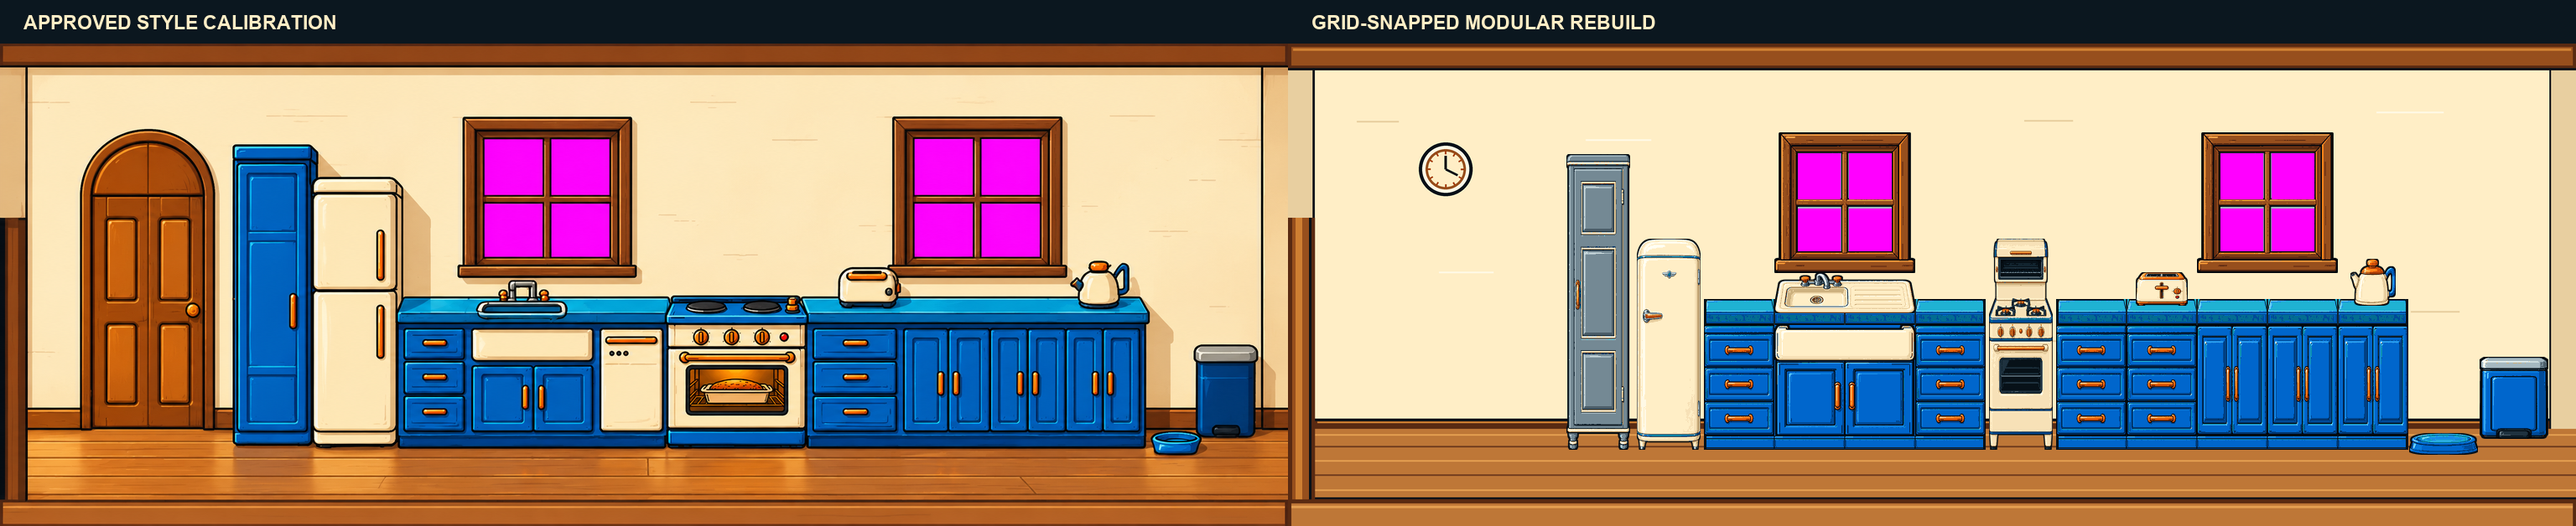
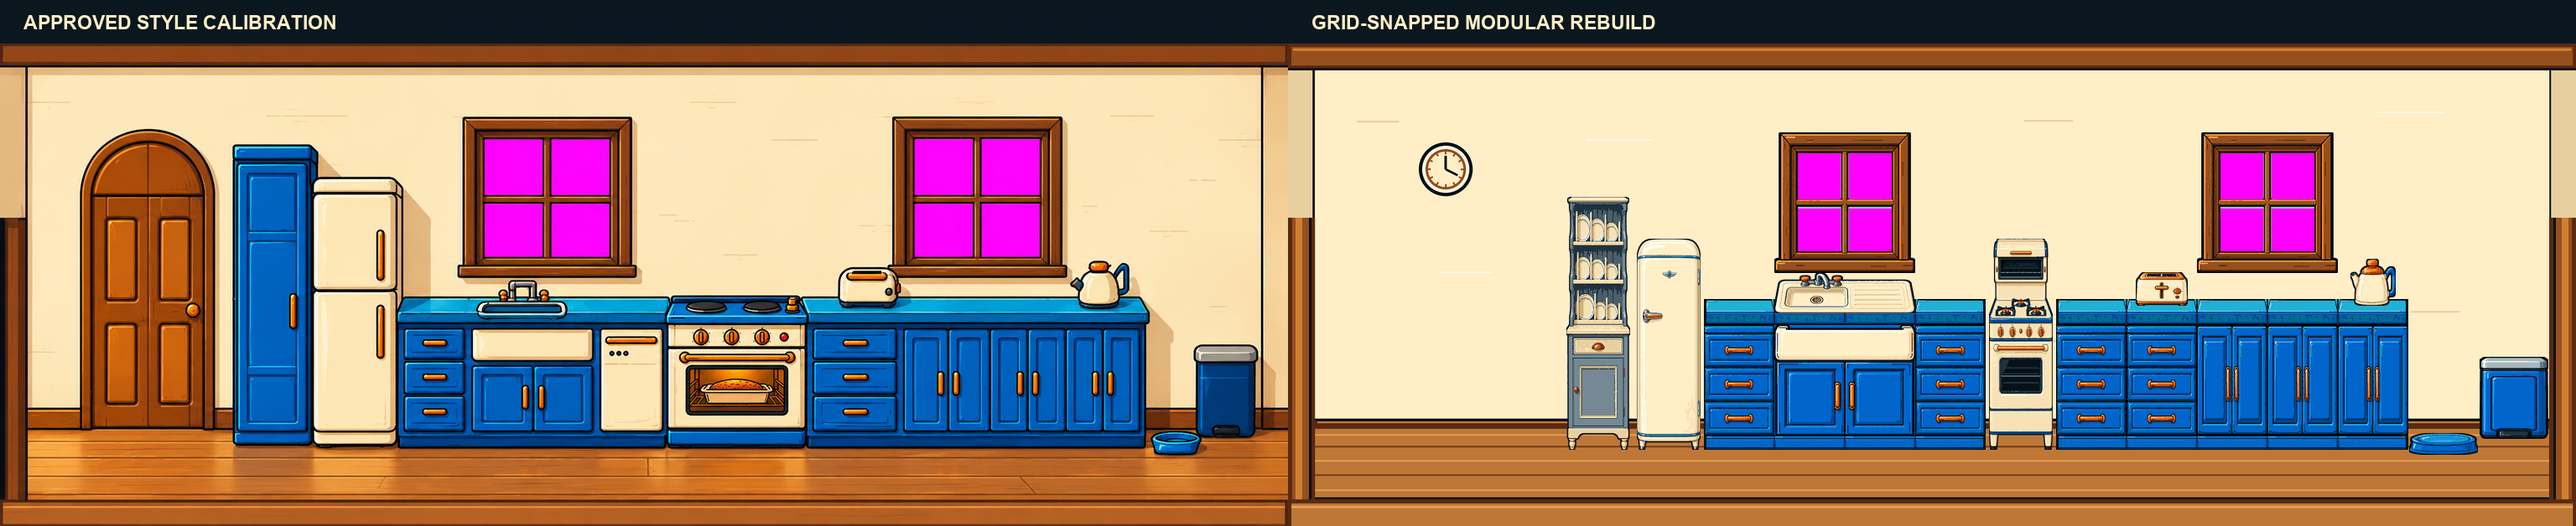
Complete Kitchen V3 right-door rebuild review

Changed region(s): [[0.5938, 0.2723, 0.6562, 0.8471], [0.9688, 0.3933, 1.0, 0.9682]]

diff --git a/review/kitchen-proof-v3-rebuild/review.html b/review/kitchen-proof-v3-rebuild/review.html
@@ -10,7 +10,7 @@
   </style>
 </head>
 <body>
-  <header><span class="status">REVIEW ONLY · AWAITING FRANK</span><h1>Kitchen V3 rebuild</h1><p>Approved illustrative quality, exact bay geometry, zero cast shadows, and the same-pass freestanding 1950s amendment.</p></header>
+  <header><span class="status">REVIEW ONLY · AWAITING FRANK</span><h1>Kitchen V3 rebuild</h1><p>Approved illustrative quality, exact bay geometry, zero cast shadows, freestanding 1950s appliances and the right-door magic cupboard jamb.</p></header>
   <main>
     <h2>Native room view · 1536 × 576</h2><div class="card"><img class="room" src="outputs/kitchen_v3_rebuild_room.png" width="1536" height="576" alt="Kitchen V3 modular rebuild"></div>
     <h2>Approved calibration vs modular rebuild</h2><div class="card"><img src="outputs/calibration_vs_rebuild.png" width="3072" height="628" alt="Approved calibration beside rebuild"></div>
@@ -19,7 +19,7 @@
       <section><h2>Tower scale · 1/4</h2><div class="card"><img class="pixel" src="outputs/kitchen_v3_rebuild_tower_scale.png" width="384" height="144" alt="Rebuild at tower scale"></div></section>
     </div>
     <h2>Prime Keeper · unchanged 1:1</h2><div class="card"><img src="outputs/keeper_check_sheet.png" alt="Prime Keeper at fridge sink and cooker"></div>
-    <h2>Freestanding moving and light overlays</h2><div class="card"><img src="outputs/freestanding_state_overlays.png" alt="Open larder, open refrigerator and lit cooker overlay states"></div>
+    <h2>Right jamb, moving state and light overlays</h2><div class="card"><img src="outputs/freestanding_state_overlays.png" alt="Right-door jamb, open refrigerator and lit cooker overlay states"></div>
     <h2>Every isolated part</h2><div class="card"><img src="outputs/contact_sheet.png" alt="Kitchen rebuild production parts"></div>
     <h2>Mechanical gates</h2>
     <div class="card"><table><tbody>
@@ -27,7 +27,7 @@
       <tr><th>Window exclusion</th><td class="pass">zero item pixels above y=274</td></tr>
       <tr><th>Run geometry</th><td class="pass">continuous opaque tiles; declared joints only</td></tr>
       <tr><th>Cooker alignment</th><td class="pass">hob y=305; eye-level grill y=251–291; feet y=485</td></tr>
-      <tr><th>Amendment</th><td class="pass">freestanding larder/fridge/cooker active; dishwasher and fitted predecessors retired</td></tr>
+      <tr><th>Amendment</th><td class="pass">dresser/fridge/cooker active; right jamb exact; utility, larder, dishwasher and fitted predecessors retired</td></tr>
       <tr><th>Shadow policy</th><td class="pass">generated exterior halo discarded; detached partial alpha rejected</td></tr>
       <tr><th>Isolation</th><td class="pass">549 changed pixels, all inside the sink insert</td></tr>
     </tbody></table><img src="outputs/isolation_sink_taps_diff.png" width="1536" height="576" alt="Sink-only isolation difference"></div>

diff --git a/review/kitchen-proof-v3-rebuild/build_review.py b/review/kitchen-proof-v3-rebuild/build_review.py
@@ -272,10 +272,17 @@ def make_parts() -> dict[str, dict]:
         "bayWidth": 1, "category": "freestanding", "placement": "freestanding", "realSizeM": [0.5, 0.6, 2.0],
         "anchorPx": [38, 353], "standPointX": 370,
         "movingPartOverlays": [{"id": "open_door", "file": "overlay_larder_cupboard_open.png", "rectPx": [-50, 0, 76, 353]}],
+        "kitchenUsage": "retired-from-kitchen",
         "sourceSha256": source_hash("larder-source.png"),
     }, records)
     larder_open = clean_source("larder-open-source.png", (126, 353), outline=True)
-    save_part("overlay_larder_cupboard_open.png", larder_open, {"bayWidth": 1, "category": "component", "sourceSha256": source_hash("larder-open-source.png")}, records)
+    save_part("overlay_larder_cupboard_open.png", larder_open, {"bayWidth": 1, "category": "component", "kitchenUsage": "retired-from-kitchen", "sourceSha256": source_hash("larder-open-source.png")}, records)
+
+    dresser = clean_source("dresser-1950s-source.png", (76, 302), outline=True)
+    save_part("dresser_1950s.png", dresser, {
+        "bayWidth": 1, "category": "freestanding", "placement": "freestanding", "realSizeM": [0.5, 0.4, 1.8],
+        "anchorPx": [38, 302], "standPointX": 370, "sourceSha256": source_hash("dresser-1950s-source.png"),
+    }, records)
 
     fridge_1950s = clean_source("fridge-1950s-source.png", (76, 252), outline=True)
     save_part("fridge_1950s.png", fridge_1950s, {
@@ -363,6 +370,13 @@ def room_shell() -> Image.Image:
     rect((9, 208, 17, 544), WOOD_LIGHT)
     line((26, 208, 26, 544), INK, 3)
 
+    # Matching right-wall jamb: the cupboard of myriads is fictional and
+    # never occupies a bay or appears behind this timber edge.
+    rect((1504, 208, 1536, 544), WOOD_DARK)
+    rect((1510, 208, 1531, 544), WOOD)
+    rect((1519, 208, 1527, 544), WOOD_LIGHT)
+    line((1510, 208, 1510, 544), INK, 3)
+
     image = image.resize((W, H), Image.Resampling.LANCZOS)
     window = build_window()
     image.alpha_composite(window, (580, 106))
@@ -378,13 +392,12 @@ def assemble(
     parts: dict[str, Image.Image],
     keeper_x: int | None = None,
     sink_override: Image.Image | None = None,
-    open_larder: bool = False,
     open_fridge: bool = False,
     lit_cooker: bool = False,
 ) -> tuple[Image.Image, Image.Image]:
     room = room_shell()
     item_layer = Image.new("RGBA", room.size, (0, 0, 0, 0))
-    paste(item_layer, parts["unit_larder_cupboard_closed.png"], 332, 132)
+    paste(item_layer, parts["dresser_1950s.png"], 332, 183)
     paste(item_layer, parts["fridge_1950s.png"], 416, 233)
 
     for x in (496, 580, 664, 748, 916, 1000, 1084, 1168, 1252):
@@ -414,8 +427,6 @@ def assemble(
     paste(item_layer, parts["pedal_bin.png"], 1420, 373)
     room.alpha_composite(item_layer)
 
-    if open_larder:
-        paste(room, parts["overlay_larder_cupboard_open.png"], 282, 132)
     if open_fridge:
         paste(room, parts["overlay_fridge_open.png"], 366, 233)
     if lit_cooker:
@@ -431,6 +442,10 @@ def assemble(
     jd.rectangle((5, 208, 25, 543), fill=WOOD)
     jd.rectangle((9, 208, 16, 543), fill=WOOD_LIGHT)
     jd.line((26, 208, 26, 543), fill=INK, width=3)
+    jd.rectangle((1504, 208, 1535, 543), fill=WOOD_DARK)
+    jd.rectangle((1510, 208, 1530, 543), fill=WOOD)
+    jd.rectangle((1519, 208, 1526, 543), fill=WOOD_LIGHT)
+    jd.line((1510, 208, 1510, 543), fill=INK, width=3)
     return room, item_layer
 
 
@@ -480,7 +495,7 @@ def main() -> None:
     state_sheet = Image.new("RGBA", (W, H * 3), (0, 0, 0, 255))
     state_draw = ImageDraw.Draw(state_sheet)
     for index, (label, options) in enumerate((
-        ("LARDER OPEN", {"open_larder": True}),
+        ("RIGHT DOOR · JAMB ONLY", {}),
         ("FRIDGE OPEN / INTERIOR LIT", {"open_fridge": True}),
         ("COOKER LIGHT OVERLAYS", {"lit_cooker": True}),
     )):
@@ -538,8 +553,9 @@ def main() -> None:
         "schema": "lighthouse-keeper/kitchen-v3-rebuild-room@1", "canvasPx": [W, H], "walkY": 502,
         "bayFieldX": [328, 1504], "bayWidthPx": 84, "bayCount": 14,
         "runs": [[3, 6], [8, 12]], "windows": WINDOWS,
-        "placements": {"larder": [1, 370], "fridge": [2, 454], "drawers": [[3, 538], [6, 790], [8, 958], [9, 1042]], "sink": [[4, 5], 622], "cooker": [7, 874], "toaster": [9, 1042], "kettle": [12, 1294], "petBowl": [13, 1378], "pedalBin": [14, 1462]},
-        "retiredFromKitchen": ["unit_utility_cupboard_closed.png", "overlay_utility_cupboard_open.png", "unit_fridge_freezer.png", "front_dishwasher.png", "overlay_dishwasher_led.png", "cooker.png"],
+        "placements": {"dresser": [1, 370], "fridge": [2, 454], "drawers": [[3, 538], [6, 790], [8, 958], [9, 1042]], "sink": [[4, 5], 622], "cooker": [7, 874], "toaster": [9, 1042], "kettle": [12, 1294], "petBowl": [13, 1378], "pedalBin": [14, 1462]},
+        "rightDoorJambPx": [1504, 208, 1536, 544],
+        "retiredFromKitchen": ["unit_utility_cupboard_closed.png", "overlay_utility_cupboard_open.png", "unit_larder_cupboard_closed.png", "overlay_larder_cupboard_open.png", "unit_fridge_freezer.png", "front_dishwasher.png", "overlay_dishwasher_led.png", "cooker.png"],
     }, indent=2) + "\n", encoding="utf-8")
 
     files = {}
@@ -548,10 +564,10 @@ def main() -> None:
             if path.is_file(): files[path.relative_to(ROOT).as_posix()] = {"sha256": sha256(path), "bytes": path.stat().st_size}
     manifest = {
         "schema": "lighthouse-keeper/kitchen-proof-v3-rebuild@1", "status": "review-only-awaiting-frank", "canonMutation": False, "runtimeMutation": False,
-        "geometry": {"modulePx": [W, H], "scalePxPerM": 168, "topRevealPxPerM": 28, "walkY": 502, "floorBandY": [460, 544], "bayFieldX": [328, 1504], "bayCount": 14, "bayWidthPx": 84, "windows": WINDOWS, "glassLocalRects": GLASS_LOCAL_RECTS, "verticals": {"unitBase": 485, "plinth": [468, 485], "fronts": [336, 468], "worktopEdge": [322, 336], "worktopReveal": [305, 322], "fridge1950s": [233, 485], "larder": [132, 485], "cooker1950s": [233, 485], "cookerHobReveal": [305, 322]}},
+        "geometry": {"modulePx": [W, H], "scalePxPerM": 168, "topRevealPxPerM": 28, "walkY": 502, "floorBandY": [460, 544], "bayFieldX": [328, 1504], "bayCount": 14, "bayWidthPx": 84, "windows": WINDOWS, "glassLocalRects": GLASS_LOCAL_RECTS, "leftDoorJambPx": [0, 208, 32, 544], "rightDoorJambPx": [1504, 208, 1536, 544], "verticals": {"unitBase": 485, "plinth": [468, 485], "fronts": [336, 468], "worktopEdge": [322, 336], "worktopReveal": [305, 322], "dresser1950s": [183, 485], "fridge1950s": [233, 485], "cooker1950s": [233, 485], "cookerHobReveal": [305, 322]}},
         "keeper": {"sourceScale": 1.0, "standingHeightPx": 298, "soleDatumY": 316, "roomSoleY": 502, "positions": [454, 622, 874], "worktopEdgeHeightPx": 180, "worktopEdgePercent": round(180 / 298 * 100, 2)},
         "style": {"approvedCalibrationSha256": sha256(SOURCES / "approved-style-calibration.png"), "v7Sha256": V7_SHA, "fillPalette": "palette_env-v1", "fillPaletteSize": len(PALETTE), "normalization": "generated alpha >=200 becomes silhouette; lower-alpha exterior halo/shadow discarded; final antialias created only by deterministic resampling"},
-        "checks": {"exactMagentaPixels": exact_magenta, "nearMagentaPixels": near_magenta, "itemPixelsAboveWindowLimit": forbidden, "worktopRuns": [[496, 832], [916, 1336]], "worktopTopY": 305, "cookerHobTopY": 305, "cookerTopY": 233, "cookerFeetY": 485, "eyeLevelGrillY": [251, 291], "plinthY": [468, 485], "castShadowPolicy": "none; generated exterior alpha below threshold discarded before fitting", "itemInkPx": "2–3 at native scale", "keeperInkPx": "3–4 at native scale", "isolation": {"changedLocalTapPixels": changed_local, "roomDiffPixels": diff_pixels, "roomDiffBoundsInclusive": bbox, "allowedBoundsInclusive": [580, 274, 747, 321], "allStoredPartHashesUnchanged": True}, "overlayRects": {"overlay_oven_window.png": [11, 132, 65, 190], "overlay_grill_glow.png": [10, 18, 66, 58], "overlay_burner_flames.png": [8, 72, 68, 108]}},
+        "checks": {"exactMagentaPixels": exact_magenta, "nearMagentaPixels": near_magenta, "itemPixelsAboveWindowLimit": forbidden, "worktopRuns": [[496, 832], [916, 1336]], "worktopTopY": 305, "cookerHobTopY": 305, "cookerTopY": 233, "cookerFeetY": 485, "eyeLevelGrillY": [251, 291], "rightJambPx": [1504, 208, 1536, 544], "plinthY": [468, 485], "castShadowPolicy": "none; generated exterior alpha below threshold discarded before fitting", "itemInkPx": "2–3 at native scale", "keeperInkPx": "3–4 at native scale", "isolation": {"changedLocalTapPixels": changed_local, "roomDiffPixels": diff_pixels, "roomDiffBoundsInclusive": bbox, "allowedBoundsInclusive": [580, 274, 747, 321], "allStoredPartHashesUnchanged": True}, "overlayRects": {"overlay_oven_window.png": [11, 132, 65, 190], "overlay_grill_glow.png": [10, 18, 66, 58], "overlay_burner_flames.png": [8, 72, 68, 108]}},
         "shell": {"file": "parts/room_shell_kitchen.png", **shell_record},
         "parts": records, "files": files,
     }

diff --git a/review/kitchen-proof-v3-rebuild/verify_review.py b/review/kitchen-proof-v3-rebuild/verify_review.py
@@ -124,7 +124,7 @@ def main() -> None:
         check(image.getchannel("A").getextrema() == (255, 255), f"cut-out/gap in solid fitted component: {name}")
     check(Image.open(PARTS / "worktop_tile.png").size == (84, 31), "task-authority 84x31 worktop drift")
     expected_freestanding = {
-        "unit_larder_cupboard_closed.png": ([76, 353], [0.5, 0.6, 2.0], 370),
+        "dresser_1950s.png": ([76, 302], [0.5, 0.4, 1.8], 370),
         "fridge_1950s.png": ([76, 252], [0.5, 0.6, 1.5], 454),
         "cooker_1950s.png": ([76, 252], [0.5, 0.6, 1.5], 874),
     }
@@ -135,13 +135,16 @@ def main() -> None:
         check(record["placement"] == record["category"] == "freestanding", f"placement drift: {name}")
         check(record["bayWidth"] == 1 and record["standPointX"] == stop_x, f"bay/stop drift: {name}")
     retired = set(room_data["retiredFromKitchen"])
-    check({"cooker.png", "unit_fridge_freezer.png", "unit_utility_cupboard_closed.png", "front_dishwasher.png", "overlay_dishwasher_led.png"} <= retired, "superseded appliances not retired")
+    check({"cooker.png", "unit_fridge_freezer.png", "unit_utility_cupboard_closed.png", "overlay_utility_cupboard_open.png", "unit_larder_cupboard_closed.png", "overlay_larder_cupboard_open.png", "front_dishwasher.png", "overlay_dishwasher_led.png"} <= retired, "superseded appliances not retired")
+    check(items["parts"]["unit_larder_cupboard_closed.png"]["kitchenUsage"] == "retired-from-kitchen", "larder remains active")
     check("dishwasher" not in room_data["placements"], "dishwasher remains in active room layout")
+    check("larder" not in room_data["placements"] and room_data["placements"]["dresser"] == [1, 370], "bay 1 is not the dresser")
     check(room_data["placements"]["drawers"][1] == [6, 790], "bay 6 is not drawers")
     check(manifest["checks"]["worktopRuns"] == [[496, 832], [916, 1336]], "run endpoints drift")
     check(manifest["checks"]["worktopTopY"] == manifest["checks"]["cookerHobTopY"] == 305, "cooker hob/worktop top mismatch")
     check(manifest["checks"]["cookerTopY"] == 233 and manifest["checks"]["cookerFeetY"] == 485, "freestanding cooker envelope drift")
     check(manifest["checks"]["eyeLevelGrillY"] == [251, 291], "eye-level grill band drift")
+    check(manifest["checks"]["rightJambPx"] == room_data["rightDoorJambPx"] == [1504, 208, 1536, 544], "right-door jamb geometry drift")
     check(manifest["checks"]["itemPixelsAboveWindowLimit"] == 0, "item crosses y274 window exclusion")
 
     # Independent reconstruction proves the declared item layer leaves both
@@ -150,6 +153,8 @@ def main() -> None:
     part_images = {name: Image.open(PARTS / name).convert("RGBA") for name in items["parts"]}
     rebuilt, item_layer = builder.assemble(part_images)
     check(rebuilt.tobytes() == room.tobytes(), "room is not deterministic code assembly")
+    for y in (208, 300, 502, 543):
+        check(room.getpixel((1519, y))[3] == 255, f"right-door jamb missing at y={y}")
     for x0, _, x1, _ in manifest["geometry"]["windows"]:
         for y in range(274):
             for x in range(x0, x1):
@@ -194,7 +199,8 @@ def main() -> None:
     print(f"  {len(items['parts'])} item/component parts plus one shell with exact dimensions and source pins")
     print(f"  {exact} exact-magenta pixels; 0 near-magenta; 0 item/window collisions")
     print("  no detached partial-alpha halos; solid run components contain no cut-outs")
-    print("  same-pass amendment: freestanding larder/fridge/cooker active; dishwasher and fitted predecessors retired")
+    print("  same-pass amendment: bay-1 dresser, rounded fridge and eye-level-grill cooker active")
+    print("  right-door magic-cupboard jamb exact at x1504–1536/y208–544; no in-room utility/larder")
     print("  cooker: hob y305, eye-level grill y251–291, feet y485")
     print("  Prime Keeper: exact 256x320 source, native 1:1 at x454/x622/x874")
     print(f"  sink isolation: {isolation['roomDiffPixels']} pixels, confined to {isolation['roomDiffBoundsInclusive']}")

diff --git a/review/kitchen-proof-v3-rebuild/TECHNICAL_REPORT.md b/review/kitchen-proof-v3-rebuild/TECHNICAL_REPORT.md
@@ -5,9 +5,11 @@
 The approved calibration has been rebuilt as a grid-snapped modular kitchen,
 without the rejected V3's schematic treatment and without the calibration's
 cast shadows. Frank's same-pass amendment is included: the active appliance
-set is a freestanding blue larder, rounded single-door 1950s fridge and
-freestanding gas cooker with an eye-level grill. The dishwasher is absent and
-bay 6 is drawers. Superseded rebuild parts are retained and marked
+set is a narrow freestanding dresser/plate rack, rounded single-door 1950s
+fridge and freestanding gas cooker with an eye-level grill. The right-wall
+magic-cupboard door is represented only by its timber jamb; there is no utility
+cupboard or larder in the room. The dishwasher is absent and bay 6 is drawers.
+Superseded rebuild parts are retained and marked
 `retired-from-kitchen`, never deleted. The source illustrations carry
 substantial bevels, layered enamel edges, organic near-black ink, warm internal
 modelling and detailed hardware; deterministic processing supplies exact
@@ -17,7 +19,7 @@ geometry and key colour.
 |---|---:|
 | Module | `1536 × 576` |
 | Bays | `14 × 84 px`, x `328–1504` |
-| Production parts | 30 item/run/overlay PNGs plus one room shell |
+| Production parts | 31 item/run/overlay PNGs plus one room shell |
 | Exact magenta | 21,624 pixels, confined to eight panes |
 | Near-magenta | 0 |
 | Item pixels above y=274 in window bays | 0 |
@@ -25,7 +27,8 @@ geometry and key colour.
 | Worktop/cooker hob top | both y=305 |
 | Freestanding cooker | top y=233; eye-level grill y=251–291; feet y=485 |
 | Freestanding fridge | 76 × 252 px; x=416–492; y=233–485 |
-| Freestanding larder | 76 × 353 px; x=332–408; y=132–485 |
+| Freestanding dresser | 76 × 302 px; x=332–408; y=183–485 |
+| Right magic-cupboard jamb | x=1504–1536; y=208–544; no panel/interior |
 | Prime Keeper | exact 256×320 source, composited 1:1 |
 | Sink isolation delta | 549 pixels, x `581–745`, y `275–319` |
 
@@ -48,9 +51,10 @@ The build performs these deterministic steps:
    counter items and floor items from separate files.
 
 The base worktop tiles remain full opaque rectangles beneath the sink insert.
-No worktop knows what is placed on it. The larder and fridge open states and
-the cooker's oven, grill and gas-flame states are separate overlays. No
-generated Keeper pixels were used.
+No worktop knows what is placed on it. The fridge open state and the cooker's
+oven, grill and gas-flame states are separate overlays. The retained larder
+files are explicitly retired and not assembled. No generated Keeper pixels
+were used.
 
 ## Keeper check
 

diff --git a/review/kitchen-proof-v3-rebuild/README.md b/review/kitchen-proof-v3-rebuild/README.md
@@ -5,10 +5,12 @@ canon, runtime art or any previous immutable review set.
 
 The package rebuilds the approved style calibration as 30 separate item/run/
 overlay parts plus one room shell on the exact `1536 × 576`, 14-bay geometry.
-It incorporates the same-pass freestanding amendment: a 1950s larder, rounded
-single-door fridge and eye-level-grill gas cooker are active; the earlier fitted
-utility/fridge, slot-in cooker and dishwasher parts remain only as explicitly
-retired provenance. Authored high-resolution sources are normalised into
+It incorporates the same-pass freestanding amendment and Frank's right-door
+revision: a 1950s dresser/plate rack, rounded single-door fridge and
+eye-level-grill gas cooker are active; matching timber jambs expose neither the
+stair core nor the magic cupboard. The utility/larder, fitted fridge, slot-in
+cooker and dishwasher parts remain only as explicitly retired provenance.
+Authored high-resolution sources are normalised into
 deterministic bay-sized sprites, assembled only in code and checked against
 both 26 October briefs.
 
@@ -21,8 +23,8 @@ Open `review.html`. The principal files are:
   the same display scale;
 - `outputs/keeper_check_sheet.png` — exact Prime Keeper at fridge, sink and
   cooker;
-- `outputs/freestanding_state_overlays.png` — open larder, open/lit fridge and
-  cooker light-overlay states;
+- `outputs/freestanding_state_overlays.png` — right-jamb proof, open/lit fridge
+  and cooker light-overlay states;
 - `outputs/contact_sheet.png` — every isolated part with its dimensions;
 - `parts/item.json` and `parts/room.json` — asset and assembly contracts;
 - `TECHNICAL_REPORT.md` — results, method and physical notes.

diff --git a/review/kitchen-proof-v3-rebuild/PROMPT_LOG.md b/review/kitchen-proof-v3-rebuild/PROMPT_LOG.md
@@ -64,6 +64,9 @@ Per-asset final subject instructions:
   one copper/chrome lever handle, period badge, blue trim and short legs.
 - `larder`: narrow freestanding 1950s blue larder; finished side cheeks,
   cream trim, recessed panels, copper handle and feet.
+- `dresser-1950s`: narrow 0.50 × 0.40 × 1.80 m freestanding blue kitchen
+  dresser/plate rack; open cream-trimmed shelves with upright plates, lower
+  drawer/cupboard, finished cheeks and feet; decorative, not a utility store.
 
 Corrective edit applied to the first sink source:
 
@@ -71,7 +74,8 @@ Corrective edit applied to the first sink source:
 > with an integrated draining board; retain one bowl on the left and centre
 > both orange knobs and the silver arched spout above it. Change nothing else.
 
-Precise open-state edits were made from the final fridge and larder sources:
+Precise open-state edits were made from the final fridge and (now-retired)
+larder sources:
 
 > Preserve the exact outer cabinet and ligne-claire finish. Swing its one door
 > toward the viewer to the left, expose the period interior and shelves, keep
@@ -81,4 +85,6 @@ Precise open-state edits were made from the final fridge and larder sources:
 The first cooker generation and its attempted shadow-removal edit are retained
 as provenance. Production normalisation, rather than model alpha, enforces the
 no-shadow boundary. The freestanding amendment sources use that same
-normalisation and are recorded in `manifest.json` by SHA-256.
+normalisation and are recorded in `manifest.json` by SHA-256. Frank's later
+right-door decision retired the larder before room assembly; its source and
+overlay remain only as reversible provenance.

diff --git a/review/kitchen-proof-v3-rebuild/sources/AMENDMENT_TASK.md b/review/kitchen-proof-v3-rebuild/sources/AMENDMENT_TASK.md
@@ -10,8 +10,8 @@ All appliances are FREESTANDING, with a 1950s character. Only the sink and cupbo
 
 1. Bay 7: one-bay, 76 px wide freestanding 1950s gas cooker, 0.50 × 0.60 × 1.50 m, with eye-level grill/hood, hob at y 305–322, top y 233 and feet y 485. Keeper stop x 874; bays 7–8 remain reserved for the later range.
 2. Bay 2: one-bay, 76 px wide rounded 1950s freestanding refrigerator, 0.50 × 0.60 × 1.50 m, one door, y 233–485, keeper stop x 454.
-3. Bay 1: the utility is a 76 px wide freestanding larder with a camera-facing open-door overlay.
+3. Bay 1: no utility cupboard or larder. A 76 px wide, 0.50 × 0.40 × 1.80 m freestanding 1950s dresser/plate rack is decorative only. The magic cupboard lies behind a right-wall timber jamb at x 1504–1536, y 208–544 and consumes no bay.
 4. The dishwasher is retired; bay 6 is `front_drawers.png`.
 5. Fitted runs remain bays 3–6 and 8–12, with end caps at x 496, 832, 916 and 1336.
 
-The exact authoritative source remains `docs/prompts/KITCHEN_V3_AMENDMENT_FREESTANDING_2026-10-26.md`; this pinned copy records the clauses implemented by the review package.
+The exact authoritative source remains `docs/prompts/KITCHEN_V3_AMENDMENT_FREESTANDING_2026-10-26.md`; this pinned copy records the clauses implemented by the review package, including Frank's later right-door revision.

diff --git a/review/kitchen-proof-v3-rebuild/sources/SOURCE_TASK.md b/review/kitchen-proof-v3-rebuild/sources/SOURCE_TASK.md
@@ -77,7 +77,10 @@ Do not start any other room. Report results and anything physically inconsistent
 ## Same-pass amendment applied
 
 `docs/prompts/KITCHEN_V3_AMENDMENT_FREESTANDING_2026-10-26.md` is applied in
-this same folder and wins where it differs: bay 1 is a freestanding larder;
-bay 2 is a rounded one-door 1950s freestanding fridge; bay 6 is drawers; bay 7
-is a freestanding 1.50 m gas cooker with eye-level grill; the dishwasher and
-superseded fitted/slot-in parts are retained only as retired provenance.
+this same folder and wins where it differs. Frank's later right-door revision
+also applies: bay 1 is a freestanding 1950s dresser/plate rack; the room has no
+utility cupboard or larder; the right wall has a timber jamb at x 1504–1536,
+y 208–544 for the hidden magic cupboard. Bay 2 is a rounded one-door 1950s
+freestanding fridge; bay 6 is drawers; bay 7 is a freestanding 1.50 m gas
+cooker with eye-level grill. The dishwasher and superseded fitted/slot-in/
+larder parts are retained only as retired provenance.
